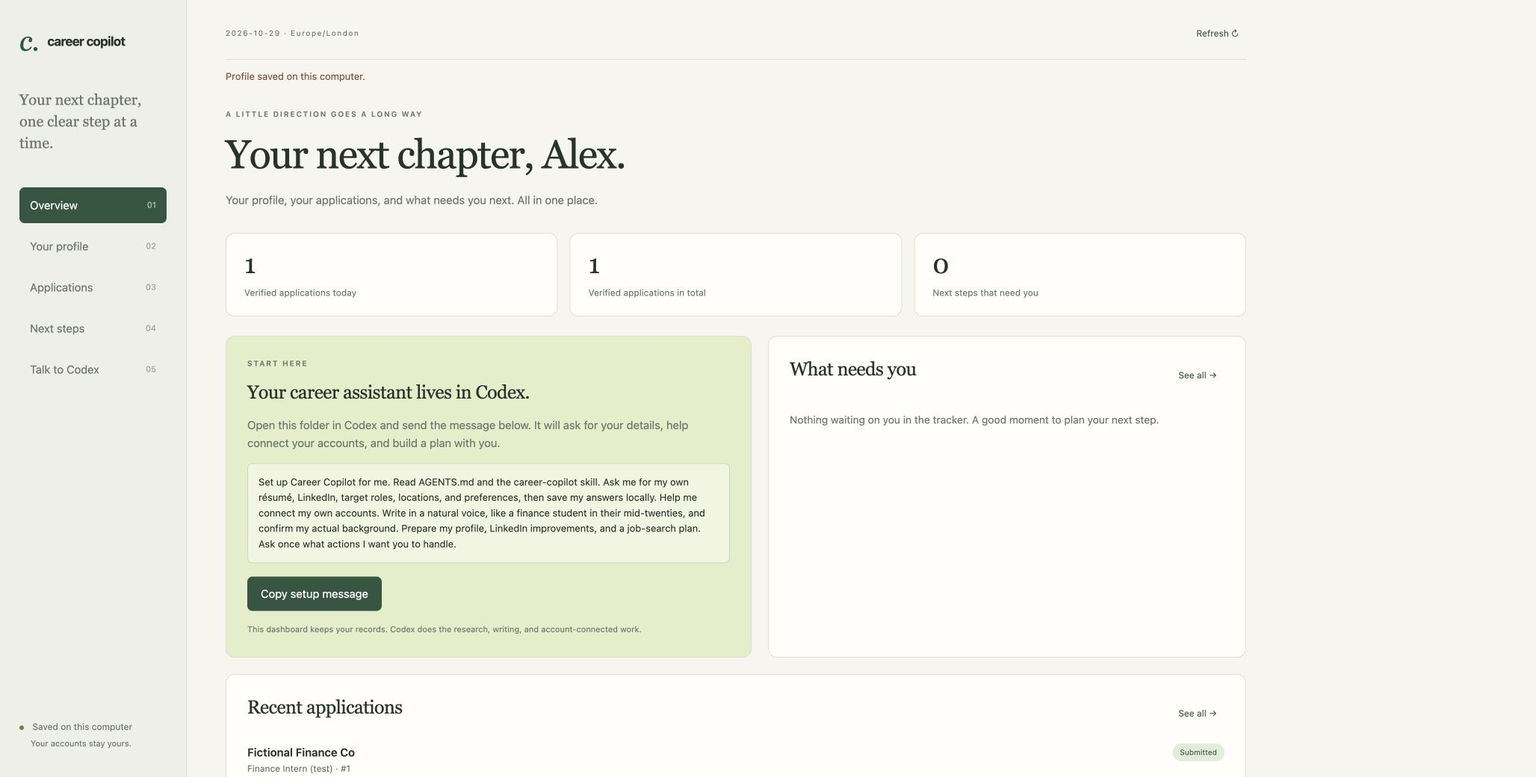
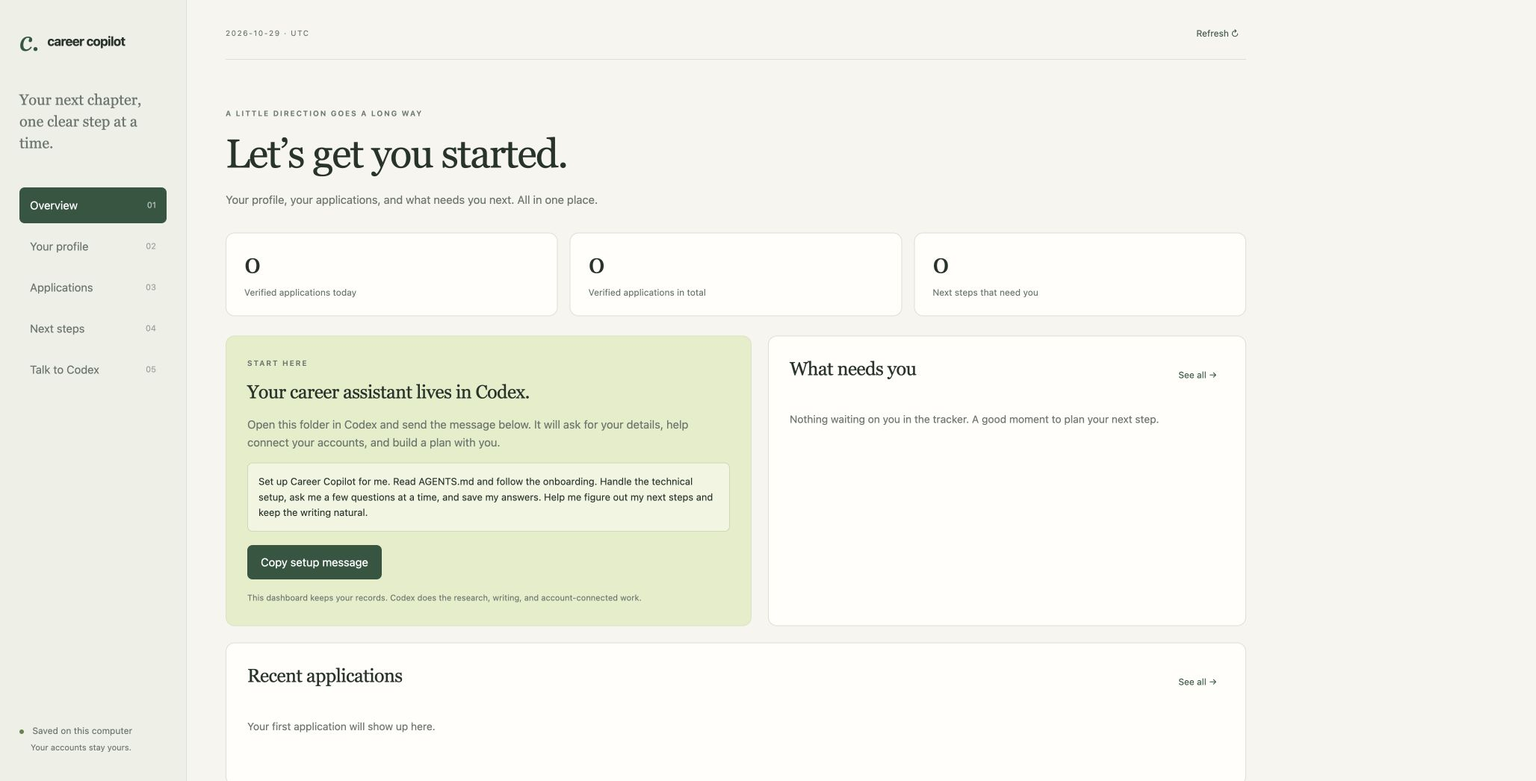
Add conversational onboarding and simplify first-time Codex setup

diff --git a/career_copilot/web/app.js b/career_copilot/web/app.js
@@ -1,7 +1,7 @@
 const token = document.querySelector('meta[name="career-token"]').content;
 const $ = id => document.getElementById(id);
 let state;
-const setupPrompt = 'Set up Career Copilot for me. Read AGENTS.md and the career-copilot skill. Ask me for my own résumé, LinkedIn, target roles, locations, and preferences, then save my answers locally. Help me connect my own accounts. Write in a natural voice, like a finance student in their mid-twenties, and confirm my actual background. Prepare my profile, LinkedIn improvements, and a job-search plan. Ask once what actions I want you to handle.';
+const setupPrompt = 'Set up Career Copilot for me. Read AGENTS.md and follow the onboarding. Handle the technical setup, ask me a few questions at a time, and save my answers. Help me figure out my next steps and keep the writing natural.';
 const prompts = [
   ['Get started', setupPrompt],
   ['Any replies?', 'Check my connected email for application replies, including archived mail, Spam, and Trash if supported. Read the full messages. Separate receipts, assessments, interviews, outreach, and rejections. Save source links and next steps in my tracker. Tell me what you actually checked and any access limits.'],
@@ -13,6 +13,9 @@ const prompts = [
 ];
 const fields = [
   ['name','Full name'],['email','Application email'],['linkedin','LinkedIn URL'],['github','GitHub URL, if useful'],['portfolio','Portfolio or work samples'],['location','Current city and country'],['timezone','Timezone (e.g. America/Sao_Paulo)'],['remote_preference','Remote, hybrid, or in person?'],['target_roles','Target roles',true],['target_locations','Where do you want to work?',true],['salary_preference','Salary preference (include currency and period)',true],['resume_paths','Your current résumé file paths',true],['experience_and_education','Experience and education, with dates',true],['languages','Languages and your actual level',true],['work_authorization','Work authorization and sponsorship by country',true],['availability','Start date, notice, relocation, and schedule',true],['writing_style','How should drafts sound?',true],['excluded_companies','Companies or roles to skip',true],['daily_target','Daily application target (0 = not set)'],
+];
+const contextFields = [
+  ['career_goals','What would you like to do next?',true],['interests','What do you enjoy or want to explore?',true],['strengths','What are you good at? Include real examples.',true],['skills_to_build','What would you like to get better at?',true],['projects_and_achievements','Projects, achievements, and what you personally did',true],['work_preferences','What matters most in a job or team?',true],['company_preferences','Industries or companies you like',true],['dealbreakers','Anything you want to avoid?',true],['practical_constraints','Study hours, travel, or other limits',true],['writing_sample','A short example of your own writing (optional)',true],['search_context','Applications already in progress and what you have tried',true],['support_preferences','What help and update style would suit you?',true],
 ];
 function el(tag, cls, value) { const e=document.createElement(tag);if(cls)e.className=cls;if(value!==undefined)e.textContent=value;return e; }
 function notice(s) { $('notice').textContent=s; }
@@ -46,7 +49,7 @@ function render(){
   $('stats').replaceChildren();[[s.verified_today+(p.daily_target?' / '+p.daily_target:''),'Verified applications today'],[s.verified_total,'Verified applications in total'],[s.my_tasks,'Next steps that need you']].forEach(([n,label])=>{const card=el('div','stat');card.append(el('strong','',n),el('span','',label));$('stats').append(card);});
   const my=$('my-tasks');my.replaceChildren();const mine=state.tasks.filter(t=>!t.done&&t.owner==='me').slice(0,4);mine.forEach(t=>my.append(taskRow(t)));if(!mine.length)empty(my,'Nothing waiting on you in the tracker. A good moment to plan your next step.');
   const recent=$('recent-apps');recent.replaceChildren();state.applications.slice(0,4).forEach(a=>recent.append(appRow(a,false)));if(!state.applications.length)empty(recent,'Your first application will show up here.');
-  $('profile-fields').replaceChildren();fields.forEach(([key,label,wide])=>{const l=el('label',wide?'wide':'',label);const input=el(wide?'textarea':'input');input.name=key;input.value=p[key];if(wide)input.rows=3;if(key==='daily_target'){input.type='number';input.min=0;input.max=100;}l.append(input);$('profile-fields').append(l);});
+  for(const [id,items] of [['profile-fields',fields],['context-fields',contextFields]]){$(id).replaceChildren();items.forEach(([key,label,wide])=>{const l=el('label',wide?'wide':'',label);const input=el(wide?'textarea':'input');input.name=key;input.value=p[key];if(wide)input.rows=3;if(key==='daily_target'){input.type='number';input.min=0;input.max=100;}l.append(input);$(id).append(l);});}
   const tasks=$('tasks-list');tasks.replaceChildren();for(const owner of ['me','assistant','employer']){const card=el('article','card');card.append(el('h2','',{me:'Needs you',assistant:'The assistant can handle',employer:'Waiting on employers'}[owner]));const rows=state.tasks.filter(t=>t.owner===owner);rows.forEach(t=>card.append(taskRow(t)));if(!rows.length)empty(card,'No next steps recorded.');tasks.append(card);}
   renderApps();
 }

diff --git a/career_copilot/web/index.html b/career_copilot/web/index.html
@@ -34,8 +34,8 @@
   </section>
   <section id="profile" class="page" hidden>
     <p class="eyebrow">THE FACTS BEHIND YOUR STORY</p><h1>Your profile.</h1>
-    <p class="intro">Fill this in yourself, or let Codex build it from your résumé. Leave anything you’re unsure about blank.</p>
-    <form id="profile-form" class="card"><div id="profile-fields" class="form-grid"></div><button class="primary" type="submit">Save profile</button><p class="fine">Account connections and confirmed facts are managed by Codex and preserved when you save here.</p></form>
+    <p class="intro">Codex can fill this in as you chat. You can also edit it here. Leave anything you’re unsure about blank.</p>
+    <form id="profile-form" class="card"><div id="profile-fields" class="form-grid"></div><details><summary>More about you (optional)</summary><p class="fine">Your goals, interests, preferences and voice help Codex make useful suggestions. You can answer these in your chat instead.</p><div id="context-fields" class="form-grid"></div></details><button class="primary" type="submit">Save profile</button><p class="fine">Account connections, confirmed facts and onboarding progress are preserved when you save here.</p></form>
   </section>
   <section id="applications" class="page" hidden>
     <p class="eyebrow">KEEP THE WHOLE PICTURE</p><h1>Your applications.</h1><p class="intro">A submission counts when there’s a receipt or a clear confirmation from the employer.</p>

diff --git a/career_copilot/store.py b/career_copilot/store.py
@@ -10,6 +10,7 @@ from zoneinfo import ZoneInfo, ZoneInfoNotFoundError
 
 ROOT = Path(__file__).resolve().parents[1]
 STATUSES = ("discovered", "draft", "blocked", "uncertain", "submitted", "assessment", "interview", "offer", "rejected", "withdrawn")
+ONBOARDING_TOPICS = ("background", "goals", "interests", "strengths", "projects", "work_preferences", "practicalities", "voice", "support", "permissions")
 DEFAULT_PROFILE = {
     "name": "", "email": "", "linkedin": "", "github": "", "portfolio": "",
     "location": "", "timezone": "UTC", "target_roles": "", "target_locations": "",
@@ -17,6 +18,11 @@ DEFAULT_PROFILE = {
     "experience_and_education": "", "languages": "", "work_authorization": "",
     "availability": "", "writing_style": "Natural voice for a finance student in their mid-twenties. Simple words, short sentences, real details. No corporate filler, generic AI phrases, or inflated claims.",
     "excluded_companies": "", "daily_target": 0,
+    "career_goals": "", "interests": "", "strengths": "", "skills_to_build": "",
+    "projects_and_achievements": "", "work_preferences": "", "company_preferences": "",
+    "dealbreakers": "", "writing_sample": "", "practical_constraints": "",
+    "search_context": "", "support_preferences": "",
+    "onboarding": {"status": "not_started", "covered_topics": [], "deferred_topics": [], "next_question": ""},
     "permissions": {"applications": "Not yet discussed", "profile_edits": "Not yet discussed",
                     "email": "Draft only; ask before sending", "schedule": "Not requested"},
     "facts": [], "connections": {},
@@ -99,6 +105,18 @@ def validate_profile(raw):
     for k, v in p["connections"].items():
         text(k, "connection name")
         text(v, "connection description")
+    onboarding = p["onboarding"]
+    if not isinstance(onboarding, dict) or set(onboarding) != set(DEFAULT_PROFILE["onboarding"]):
+        raise ValueError("onboarding needs status, covered_topics, deferred_topics and next_question")
+    if onboarding["status"] not in ("not_started", "in_progress", "ready_to_start"):
+        raise ValueError("Unknown onboarding status")
+    for key in ("covered_topics", "deferred_topics"):
+        topics = onboarding[key]
+        if not isinstance(topics, list) or any(not isinstance(t, str) or t not in ONBOARDING_TOPICS for t in topics) or len(topics) != len(set(topics)):
+            raise ValueError(f"{key} must be a list of unique known onboarding topics")
+    if set(onboarding["covered_topics"]) & set(onboarding["deferred_topics"]):
+        raise ValueError("An onboarding topic cannot be both covered and deferred")
+    onboarding["next_question"] = text(onboarding["next_question"], "next_question")
     return p
 
 
@@ -145,7 +163,9 @@ class Store:
     def profile(self):
         with self.connect() as c:
             row = c.execute("SELECT value FROM meta WHERE key='profile'").fetchone()
-        return json.loads(row[0]) if row else copy.deepcopy(DEFAULT_PROFILE)
+        # Merge new fields into profiles created by older versions without
+        # discarding any previously saved answers or resetting onboarding.
+        return validate_profile(json.loads(row[0])) if row else copy.deepcopy(DEFAULT_PROFILE)
 
     def save_profile(self, raw):
         p = validate_profile(raw)
@@ -158,7 +178,7 @@ class Store:
     def patch_profile(self, raw):
         # The dashboard edits only visible fields. Facts, permissions and account
         # notes may have changed in Codex since the page was opened.
-        allowed = set(DEFAULT_PROFILE) - {"facts", "permissions", "connections"}
+        allowed = set(DEFAULT_PROFILE) - {"facts", "permissions", "connections", "onboarding"}
         if not isinstance(raw, dict) or set(raw) - allowed:
             raise ValueError("Dashboard profile changes must contain editable profile fields")
         with self.connect() as c:

diff --git a/tests/test_workflow.py b/tests/test_workflow.py
@@ -38,6 +38,44 @@ class WorkflowTests(unittest.TestCase):
         self.assertEqual(self.store.state()["applications"], [])
         self.assertEqual(self.store.events(), [])
 
+    def test_personal_context_and_skipped_topics_survive_new_session(self):
+        profile = self.store.profile()
+        profile.update(career_goals="Explore treasury internships", interests="How companies manage cash",
+                       strengths="Explaining group coursework", skills_to_build="Excel",
+                       projects_and_achievements="Class cash-flow comparison; no client work",
+                       work_preferences="Learning and a supportive manager before brand name",
+                       company_preferences="Open to smaller teams", dealbreakers="Unpaid placements",
+                       writing_sample="", practical_constraints="Classes on Tuesday",
+                       search_context="No applications yet", support_preferences="Short updates")
+        profile["onboarding"] = {"status":"ready_to_start", "covered_topics":["background","goals","interests"], "deferred_topics":["voice"], "next_question":"What hours fit around your studies?"}
+        self.store.save_profile(profile)
+        actual = Store(self.temp.name).profile()
+        self.assertEqual(actual, profile)
+        self.assertEqual(actual["work_authorization"], "")
+        self.assertEqual(actual["writing_sample"], "")
+
+    def test_pre_upgrade_profiles_keep_answers_and_gain_new_fields(self):
+        legacy = {"name":"Fictional Existing User", "target_roles":"Finance intern",
+                  "facts":[{"field":"graduation", "value":"June 2027", "source":"test", "confirmed_at":"2026-01-01"}],
+                  "permissions":{"applications":"Draft only"}, "connections":{"email":"Not connected"}}
+        with self.store.connect() as c:
+            c.execute("INSERT INTO meta VALUES('profile',?)", (json.dumps(legacy),))
+        actual = Store(self.temp.name).profile()
+        self.assertEqual(actual["name"], legacy["name"])
+        self.assertEqual(actual["facts"], legacy["facts"])
+        self.assertEqual(actual["permissions"]["applications"], "Draft only")
+        self.assertEqual(actual["career_goals"], "")
+        self.assertEqual(actual["onboarding"]["status"], "not_started")
+
+    def test_invalid_onboarding_progress_is_rejected_without_losing_answers(self):
+        self.store.save_profile({"name":"Existing fictional user"})
+        for covered, deferred in ((["goals"],["goals"]), (["goals","goals"],[]), (["invented"],[]), ([{}],[])):
+            p = self.store.profile()
+            p["onboarding"] = {"status":"in_progress", "covered_topics":covered, "deferred_topics":deferred, "next_question":""}
+            with self.assertRaises(ValueError):
+                self.store.save_profile(p)
+        self.assertEqual(self.store.profile()["name"], "Existing fictional user")
+
     def test_uncertain_does_not_count_and_later_receipt_counts_once(self):
         app_id = self.add(status="uncertain")
         self.assertEqual(self.store.state()["summary"]["verified_total"], 0)
@@ -148,6 +186,8 @@ class ServerTests(unittest.TestCase):
         current["permissions"]["applications"] = "Prepare drafts only"
         current["facts"] = [{"field":"education", "value":"Finance", "source":"test", "confirmed_at":"2026-01-01"}]
         current["target_roles"] = "Treasury internships"
+        current["career_goals"] = "Learn how treasury teams work"
+        current["onboarding"] = {"status":"in_progress", "covered_topics":["goals"], "deferred_topics":["voice"], "next_question":"What interests you about treasury?"}
         self.store.save_profile(current)
         # Only the name differs from the dashboard snapshot, so only it is sent.
         edited = {**stale, "name": "New fictional name"}

diff --git a/.agents/skills/career-copilot/references/onboarding.md b/.agents/skills/career-copilot/references/onboarding.md
@@ -1,0 +1,58 @@
+# Get to know the person, without making setup feel like homework
+
+## Start small
+
+Read the saved profile, `onboarding`, and private memory first. Read supplied résumé/LinkedIn material before asking for facts it already answers. Default to a quick start; don't ask the user to choose a setup mode or fill out JSON. Codex handles files and commands. Explain simply: “I'll ask a few things to get started. You can skip anything and come back later.”
+
+Ask **at most three short questions in one message**, then wait for answers. Keep related prompts together without hiding a long questionnaire inside one question. For an empty profile, a good opening is:
+
+> What are you studying or working on at the moment? If you have a résumé, send it and I'll pull out the basics.
+>
+> What would you like to do next? It's fine if you're still figuring that out.
+>
+> Where would you like to work, and would you prefer remote, hybrid, or in person?
+
+If the user already supplied these, ask the next useful questions instead. A résumé, LinkedIn, salary number, writing sample and account connections are **not prerequisites** for starting. Don't ask for exact age/date of birth, home address, government identifiers or optional demographic data just to get to know someone. Request an application-specific required field only when actually needed.
+
+## Learn these topics over the conversation
+
+This is a coverage guide for the assistant, not a form to dump on the user. Follow interesting answers rather than reciting the list in order. Use everyday language. Don't repeat prompts whose answers are clear in supplied material. Accept “not sure”, “skip” and “later”; distinguish unknown from “no”.
+
+| Topic | Useful conversational prompts | Save in the profile |
+|---|---|---|
+| `background` | What are you studying, and when do you expect to finish? Any work, societies, volunteering or courses you want me to know about? | `experience_and_education`, `resume_paths`, `languages`, sourced `facts` |
+| `goals` | What do you want from your next role? What would a good year from now look like? | `career_goals`, `target_roles` |
+| `interests` | Which parts of your course or previous work did you enjoy? Anything you tried and didn't like? | `interests`, `dealbreakers` |
+| `strengths` | What do people tend to ask you for help with? What would you like to get better at? | `strengths`, `skills_to_build` |
+| `projects` | Tell me about one thing you worked on. What did you personally do, what was tricky, and what happened? | `projects_and_achievements`, sourced `facts` |
+| `work_preferences` | What matters most: learning, pay, stability, flexibility or something else? Any industries, teams or companies you're drawn to or want to avoid? | `work_preferences`, `company_preferences`, `dealbreakers`, `excluded_companies` |
+| `practicalities` | What can fit around your studies? When could you start? Any limits on location, travel or hours? When a real role needs it, confirm work authorization/sponsorship per country and salary currency/period. | `availability`, `practical_constraints`, `location`, `timezone`, `work_authorization`, `salary_preference` |
+| `voice` | Want to share a short message you've written so I can match your style? Anything you never want me to say? | `writing_sample`, `writing_style` |
+| `support` | What would be most useful right now: résumé, LinkedIn, finding roles or preparing for interviews? How much explanation or how many updates would you like? Any applications already in progress? | `support_preferences`, `search_context`, tracker |
+| `permissions` | Do you want me to prepare things for you to review, or also submit suitable applications? Establish sending messages, profile publishing and schedules only as those actions become relevant. | `permissions`, dated private memory |
+
+Finance is a starting context, not a box to put the person in. Don't assume they want banking, have modeling experience or should avoid other roles. If unsure, help them compare a few paths based on their actual interests and experience; label suggestions as suggestions. A stated strength is self-reported, not a verified professional credential. Ask for a concrete example before using a strong claim in an application. Preserve who did what in a group project and don't invent metrics, client work or outcomes.
+
+## Save and resume
+
+After each batch, save useful answers, dates and sources. Start from the current complete profile before importing it. Store longer notes privately. Update `onboarding`:
+
+- `status`: `not_started`, `in_progress`, or `ready_to_start`.
+- `covered_topics`: topics with enough actual information for now, not merely questions you asked.
+- `deferred_topics`: topics the user explicitly skipped or chose to discuss later. An unanswered question is not a skip.
+- `next_question`: one useful remaining question, or blank when none is needed.
+
+Persist progress across sessions. Don't re-ask covered topics or skipped optional questions every time the user returns. Revisit deferred topics when the user asks or a real application makes them necessary; explain the reason once. Keep unknown eligibility facts unknown until confirmed. Corrections replace the current answer with dated provenance; retain context in private memory, not contradictory active values.
+
+Don't make finishing all ten topics a condition for useful work. After a couple of exchanges, or sooner if the user wants to get going, produce a useful first draft/plan from confirmed facts and offer to fill in the rest while working. Record remaining topics honestly; `ready_to_start` means ready to help, **not** that every application field is known or a submission is authorized.
+
+## Reflect back, then use what you learned
+
+Give a short “Here's what I've understood” in normal language: what they want next, their concrete experience, top priorities, things to avoid and preferred voice. Invite corrections without requiring another approval round before reversible drafting. Save a tailored direction note in `private/drafts/career-direction.md` with:
+
+- What we know, what remains unknown, and what was skipped.
+- A few relevant role directions and why each fits their stated interests, including gaps honestly.
+- Real examples available for a résumé, LinkedIn or interview story.
+- The next useful action.
+
+Use these details later: explain job matches in terms of the user's priorities, filter dealbreakers, tailor drafts to actual examples, honor their preferred tone and update cadence, and ask about a gap only when it affects the next action. Don't collect a thoughtful profile and then send generic job lists or boilerplate writing.

diff --git a/.agents/skills/career-copilot/references/setup.md b/.agents/skills/career-copilot/references/setup.md
@@ -2,9 +2,9 @@
 
 ## Intake and memory
 
-1. Read existing profile and memory before asking. Ask for the user's own résumé, LinkedIn (optional), target roles, work locations and salary preference. Empty setup must actually ask the user, not just create blank files and announce completion.
+1. Read existing profile, saved onboarding progress and memory before asking. Follow [onboarding.md](onboarding.md): ask at most three short questions at a time about this user's own background, goals and work preferences, then learn more through relevant follow-ups. A résumé, LinkedIn and salary number are optional at the start. Empty setup must actually ask the user, not just create blank files and announce completion. Handle commands and profile files yourself; don't give the candidate a configuration chore.
 2. Parse supplied résumé/material using the available document tools. Extract employment/education dates and actual responsibilities. Do not manufacture missing facts. Finance examples may include coursework, university societies, internships, part-time work, spreadsheet projects or research only if the candidate actually supplied them. Being a finance student is not evidence of accounting, investment banking, modeling or Excel proficiency.
-3. Save confirmed answers in a complete profile JSON imported through the CLI. Record `facts` entries with `field`, `value`, `source`, `confirmed_at` (YYYY-MM-DD). Source may be “user confirmed in this chat” or an actual file. Keep `private/MEMORY.md` concise: current résumé paths, dated confirmations, open questions, permissions and connection status. Do not store passwords, raw OAuth tokens or login cookies.
+3. Save confirmed answers in a complete profile JSON imported through the CLI, starting from the current profile to preserve answers. Save `onboarding` covered/deferred topics and the next useful question after each batch. Record `facts` entries with `field`, `value`, `source`, `confirmed_at` (YYYY-MM-DD). Source may be “user confirmed in this chat” or an actual file. Keep `private/MEMORY.md` concise: current résumé paths, dated confirmations, open questions, permissions and connection status. Do not store passwords, raw OAuth tokens or login cookies.
 4. Resolve preferences as work needs them: graduation term, languages, country-specific authorization, start/notice date, schedule, salary currency/period, role exclusions. Do not make a long questionnaire a prerequisite for useful drafts. When the user confirms a detail once, reuse it. Re-check changing facts only when stale or contradicted.
 
 ## Connect the candidate's own accounts
@@ -25,6 +25,6 @@ Ask what the user wants handled, in plain language. Offer preparation only, subm
 
 ## First-session deliverables
 
-Produce as much as available facts allow: a saved candidate profile, an honest list of missing facts/connections, a résumé review or draft, LinkedIn draft, initial target-role plan, and a tracker with concrete next steps. Match résumé language and file type to the user's preference and employer requirements. Keep a current source copy and approved version per language. Save no invented “verified” submissions to populate the dashboard.
+Produce as much as available facts allow: a saved candidate profile and resumable onboarding progress, a short “Here's what I've understood” reflection, a private career-direction note using their priorities and examples, an honest list of missing facts/connections, a résumé review or draft, LinkedIn draft, initial target-role plan, and a tracker with concrete next steps. Distinguish ready to draft from ready to submit; don't require every optional topic to be finished before helping. Match résumé language and file type to the user's preference and employer requirements. Keep a current source copy and approved version per language. Save no invented “verified” submissions to populate the dashboard.
 
 The optional local dashboard starts with `python3 career.py serve --open`. It reads the same SQLite state as the CLI. It does not need API keys and has no direct account access. Python 3.10+ is required; some systems need the operating system's timezone database or Python's `tzdata` package for IANA timezones. Do not claim the setup is fully account-connected until access is actually verified.

diff --git a/.agents/skills/career-copilot/SKILL.md b/.agents/skills/career-copilot/SKILL.md
@@ -9,11 +9,11 @@ Read the repository's `AGENTS.md`. The repo root is three directories above this
 
 ## First-time setup
 
-Read `python3 career.py profile show`, `python3 career.py status`, and any existing `private/MEMORY.md` before asking questions. If the profile is empty, **ask the current user for their own details**. Do not ask them to get information from a friend. Initialize private storage with `python3 career.py init`.
+Read the saved profile, tracker and any existing `private/MEMORY.md` before asking questions, using `python3 career.py profile show` and `python3 career.py status` when Python is available. If a previous setup saved `private/profile-draft.json` while Python was unavailable and no profile exists yet, import it before continuing. If the profile is empty, **ask the current user for their own details**. Do not ask them to get information from a friend. Handle initialization with `python3 career.py init` yourself; use the runtime fallback in `AGENTS.md` if needed.
 
-Ask a small first batch: résumé (file or pasted text), LinkedIn URL, desired roles, preferred work locations/remote setup, and any salary preference. Offer an easy answer format without requiring every field. Do not require LinkedIn to begin. The initial intended user was described as a finance student around 25: confirm their actual education and experience from their own answers, rather than assuming engineering experience or treating this description as verified application data. Never borrow the repository creator's personal facts, résumé, or global memory for a different candidate.
+Read [references/onboarding.md](references/onboarding.md) for the conversational intake and saved progress. Ask at most three short questions at a time. Learn the person's goals, interests, strengths, projects, work preferences, practical constraints, desired support and writing style, building on supplied material. Start with background, what they want next and work location; résumé and LinkedIn are optional. A user can skip or defer anything and receive useful drafts early. The initial intended user was described as a finance student around 25: confirm their actual education and experience from their own answers, rather than assuming engineering experience or treating this description as verified application data. Never borrow the repository creator's personal facts, résumé, or global memory for a different candidate.
 
-Build the profile from the material supplied; ask only for remaining consequential facts. Confirm work authorization/sponsorship **per work country**, actual language levels, study status/graduation, notice/start dates and scheduling constraints as needed. Store unknowns as blank, not guesses. Save dated, sourced confirmations in `facts` and `private/MEMORY.md`. Read [references/setup.md](references/setup.md) for the account setup and first-session deliverables.
+Build the profile from the material supplied; ask only for remaining useful or consequential facts. Confirm work authorization/sponsorship **per work country**, actual language levels, study status/graduation, notice/start dates and scheduling constraints when needed. Store unknowns as blank, not guesses. Save dated, sourced confirmations in `facts`, `onboarding` progress and `private/MEMORY.md`. Summarize what you learned in a private career-direction draft and use it to personalize job matches and writing. Read [references/setup.md](references/setup.md) for account setup and first-session deliverables.
 
 Use a normal human voice by default: simple words, short sentences, and specific details from the candidate's experience. The intended tone is someone in their mid-twenties studying finance talking to another person. Do not sound like a corporate press release or inflate seniority to make the person sound older. Apply [references/writing.md](references/writing.md) to all résumés, cover letters, LinkedIn text, recruiter drafts and user-facing explanations. A short voluntary writing sample improves matching; it is not a setup blocker. Writing naturally does not authorize false claims or misrepresenting AI participation where disclosure is required.
 

diff --git a/README.md b/README.md
@@ -4,22 +4,27 @@ Your own career assistant in Codex: résumé and LinkedIn help, suitable jobs, a
 
 Built for a natural, early-career voice. The starting writing preference is a finance student in their mid-twenties: clear, specific, and human, without corporate filler or made-up experience. The assistant asks for **your** actual background and remembers your answers locally.
 
-![Dashboard with fictional test data](docs/dashboard.png)
+![Dashboard starting screen](docs/dashboard.png)
 
-*Preview uses a fictional candidate and synthetic receipt; no real application was submitted.*
+*Preview shows a local test workspace with no applications or personal account information.*
 
 ## Start in Codex
 
-1. [Download this repo as a ZIP](https://github.com/LeonKelvinLi/career-copilot/archive/refs/heads/main.zip) and unzip it, or clone it:
-   ```sh
-   git clone https://github.com/LeonKelvinLi/career-copilot.git
-   ```
-2. Open the `career-copilot` folder as a project in Codex. Start a chat in that project.
-3. Send:
+**Paste this into a local Codex chat:**
 
-   > Set up Career Copilot for me. Read AGENTS.md and the career-copilot skill. Ask me for my own details and walk me through setup.
+> Set up Career Copilot for me from https://github.com/LeonKelvinLi/career-copilot. Get a local copy, read its AGENTS.md, and follow the onboarding. Handle the technical setup for me. Ask me a few questions at a time, save my answers, and keep the writing natural.
 
-Codex will ask for your résumé (or pasted experience), LinkedIn URL if you have one, target roles, work locations, and preferences. It will build your profile, save your answers, and help you connect your own accounts. You don't need to send those details to the person sharing this repo.
+Codex handles the local files and commands when its session supports them. It should reuse an existing local copy if one is already set up. You answer the questions; you don't need to edit configuration, write code or provide API keys. You'll sign into your own services when a connection is needed.
+
+Already downloaded it? Open the folder in Codex and say **“Set up Career Copilot for me.”** If your chat cannot download or work with local files, [download the ZIP](https://github.com/LeonKelvinLi/career-copilot/archive/refs/heads/main.zip), unzip it, and open that folder as a local Codex project.
+
+## It gets to know you as you go
+
+It starts with what you're studying/working on, what you want next, and where you'd like to work. Then it learns your interests, strengths, real projects, career goals, work preferences, things to avoid and how you write. It asks at most three short questions at a time, saves the answers and remembers where you left off.
+
+No résumé yet? Just describe your background. Not sure about salary or your exact career path? Say so. You can skip questions and come back later. LinkedIn, a writing sample, account connections and the dashboard are optional at the start. You get a useful first draft or plan before finishing every topic.
+
+Your saved priorities shape the jobs it finds and the examples it uses in your résumé, LinkedIn and messages. It checks practical details such as graduation, availability and work authorization when needed, without guessing. You don't need to send your personal details to the person sharing this repo.
 
 If Codex doesn't discover the skill automatically, ask it to read `.agents/skills/career-copilot/SKILL.md` directly. Project guidance and skills are supported through the mechanisms described in the [official Codex customization docs](https://learn.chatgpt.com/docs/customization/overview).
 

diff --git a/AGENTS.md b/AGENTS.md
@@ -6,9 +6,13 @@ This repository reproduces a personal career-assistant workflow inside Codex. St
 
 When the user says “set this up”, “get started”, or similar, run the onboarding workflow. Ask **this user** for their details; never request their friend's details. The repository intentionally contains no candidate identity. Read existing local state first with `python3 career.py profile show` and `python3 career.py status`. Do not ask again for confirmed answers.
 
-Ask for a résumé or pasted experience, LinkedIn URL, target roles, location/remote preferences and any salary preference in a small first batch. Then infer a draft profile from supplied material and ask only for consequential missing or conflicting facts. Do useful setup and drafting while waiting. Leave unknown fields blank. Reuse answers across sessions. Do not copy the creator's personal memory into this candidate's profile.
+Follow `.agents/skills/career-copilot/references/onboarding.md` for a short conversation that learns this person's background, interests, strengths, goals, projects, work preferences, practical constraints and voice. Ask at most three short questions at a time; read supplied material first. A résumé, LinkedIn, salary number and connected accounts are optional at the start. Accept “skip”, “later” and “not sure”. Save answers and onboarding progress after each batch, and resume without repeating covered or deferred topics. Start useful drafts early rather than requiring a completed questionnaire. Leave unknown facts blank. Do not copy the creator's personal memory into this candidate's profile.
 
-Initialize storage with `python3 career.py init`. Store structured profile facts using `profile import --file private/profile-draft.json`, and longer source material in `private/`. Update `private/MEMORY.md` with dated confirmations and open questions. Files in `private/` are local and Git-ignored. Do not force-add them to Git. The dashboard is optional: `python3 career.py serve --open`.
+## Make setup easy
+
+Handle local commands, storage and profile JSON yourself. The user should only need to say “Set up Career Copilot for me” once this folder is open. Do not send them terminal commands or ask them to edit configuration when you can do it. Use an existing Python 3.10+ runtime (`python3`, or `py -3` on Windows; check bundled runtimes if available). No API keys are needed for the local tracker. If no runtime is available, keep onboarding answers in `private/profile-draft.json` and `private/MEMORY.md`, continue useful drafts, and explain that the tracker/dashboard still needs Python. Import the saved draft once it becomes available. Never claim an unfinished connection or installation succeeded. Connect one relevant account at a time through the normal user sign-in flow; leave optional accounts and the dashboard for later unless requested.
+
+When a supported runtime is available, initialize storage with `python3 career.py init`. Store structured profile facts using `profile import --file private/profile-draft.json`, and longer source material in `private/`. Update `private/MEMORY.md` with dated confirmations and open questions. Files in `private/` are local and Git-ignored. Do not force-add them to Git. The dashboard is optional: `python3 career.py serve --open`.
 
 ## Work boundaries
 

diff --git a/docs/validation.md b/docs/validation.md
@@ -20,13 +20,15 @@ The agent's follow-up review found that an older open dashboard could overwrite 
 
 ## Automated and browser checks
 
-`python3 -m unittest discover -s tests -v`: **15 tests passed**. Tests cover profile persistence, receipt/date and count invariants, role identity and deduplication, separate assessment tasks, validation, local HTTP profile saves, preservation of concurrent Codex updates, rejection of cross-origin and unauthenticated requests, and inability to serve private/arbitrary files.
+`python3 -m unittest discover -s tests -v`: **18 tests passed**. Tests cover profile persistence, receipt/date and count invariants, role identity and deduplication, separate assessment tasks, validation, local HTTP profile saves, preservation of concurrent Codex updates, rejection of cross-origin and unauthenticated requests, and inability to serve private/arbitrary files. The expanded onboarding also has checks for personal context and deferred topics surviving a new session, existing profiles gaining new fields without losing answers, invalid progress being rejected, and dashboard edits preserving newer onboarding progress.
 
 `node --check career_copilot/web/app.js`: passed. The bundled skill-creator validator also passed for `.agents/skills/career-copilot`.
 
-The dashboard was opened in Chrome against isolated fictional data. Actual browser interactions saved a profile, reloaded persisted answers, added an uncertain application, linked and completed a candidate task, edited the existing application with a clearly synthetic receipt, and verified one counted submission with no remaining candidate tasks. The profile-save flow was rechecked after the concurrency fix. `dashboard.png` is a screenshot of that fictional test; no personal account data appears in it.
+The dashboard was opened in Chrome against isolated fictional data. Actual browser interactions saved a profile, reloaded persisted answers, added an uncertain application, linked and completed a candidate task, edited the existing application with a clearly synthetic receipt, and verified one counted submission with no remaining candidate tasks. The profile-save flow was rechecked after the concurrency fix. For the expanded onboarding, browser interactions opened the optional personal-context section, saved goals/work priorities/dealbreakers, and confirmed they survived a reload. `dashboard.png` shows the updated starting screen from a local test workspace with no applications or personal account data.
 
 ## Limits
+
+The simplified setup starts with a message pasted into a local Codex chat. Downloading and local setup depend on that chat having local tools; opening an extracted ZIP as a Codex project is the documented fallback. No fresh Codex-client installation was launched to verify that bootstrap end to end. A missing Python runtime can defer the tracker/dashboard while Codex saves a private draft profile and continues the conversation.
 
 The tests do not establish that a particular user's Codex plan or device has Gmail, LinkedIn browser control, calendar, document tools or scheduling access. Those must be discovered and authenticated in that user's own session. No live email was read, no LinkedIn profile edited, no employer form submitted, and no recurring schedule created for the fictional candidate.
 

diff --git a/START_HERE.md b/START_HERE.md
@@ -1,9 +1,17 @@
-# Open this folder in Codex
+# One message to get started
 
-Start a chat in the `career-copilot` project and paste:
+Paste this into a **local Codex chat**:
 
-> Set up Career Copilot for me. Read AGENTS.md and .agents/skills/career-copilot/SKILL.md. Ask me for my own résumé or experience, LinkedIn, target roles, work locations, and preferences. Save my answers locally so I don't have to repeat them. Help me connect my own accounts. Write plainly, in a natural voice for someone in their mid-twenties studying finance, and confirm my actual background. Prepare my résumé review, LinkedIn draft, and job-search plan. Ask once which actions I want you to handle.
+> Set up Career Copilot for me from https://github.com/LeonKelvinLi/career-copilot. Get a local copy, read its AGENTS.md, and follow the onboarding. Handle the technical setup for me. Ask me a few questions at a time, save my answers, and keep the writing natural.
 
-That's it. Codex will ask **you** for the details and guide the next steps. You don't need to configure API keys or give your passwords to anyone. You can start with pasted experience if you don't have a résumé or LinkedIn yet.
+If this folder is already open in Codex, just say:
 
-After setup, try “any replies?” or “what's outstanding?”. Ask Codex to open the optional dashboard if you want to see the tracker.
+> Set up Career Copilot for me.
+
+Codex handles the files and commands when local tools are available. You answer a few questions about yourself and sign into your own accounts when needed. No coding, profile JSON or API keys to configure yourself.
+
+You can start without a résumé or LinkedIn. “Not sure”, “skip”, and “later” are fine. It saves your answers, remembers where you stopped, and learns more while helping you. It starts with your background and goals, then learns your interests, strengths, projects, preferences and writing style.
+
+If your chat can't work with local files, [download the ZIP](https://github.com/LeonKelvinLi/career-copilot/archive/refs/heads/main.zip), unzip it, open the folder as a local Codex project, and use the short message above.
+
+Later, just ask “any replies?” or “what's outstanding?”. The dashboard is optional; ask Codex to open it if you want it.

diff --git a/.agents/skills/career-copilot/references/jobs.md b/.agents/skills/career-copilot/references/jobs.md
@@ -2,6 +2,8 @@
 
 Read profile, permissions, current résumé and tracker first. Target roles come from this candidate's preferences, not the creator's engineering background. A finance student might target internships or analyst roles, but ask rather than assuming a specialty.
 
+Use the deeper profile in actual selection: goals and interests inform role directions; work/company preferences and dealbreakers inform filtering; real projects and strengths supply relevant examples; skills-to-build identify learning opportunities without pretending the skill already exists. Explain a match using those details. If the user is exploring, offer a few directions and the reason for each. Never turn an inferred interest into confirmed experience or silently ignore their priorities to fill a quota.
+
 For each candidate job, verify the live employer posting, location eligibility (including where remote work is allowed), required experience, education and language, type of employment, salary currency/period if published, deadlines and the correct application route. Third-party “worldwide” tags do not override official country restrictions. Preserve current residence versus future relocation. Do not infer work authorization, citizenship or sponsorship from name, school or residence. Financial job research is not personalized investment advice.
 
 Deduplicate by employer role ID and URL, including prior tracker/history and receipt emails. The CLI removes tracking query parameters but cannot identify every redirected alias: also compare company, title and job IDs manually. Separate roles at one company remain separate applications. Prefer suitable roles over filling a daily quota. Explain when there are fewer good matches than requested; never invent submissions.
